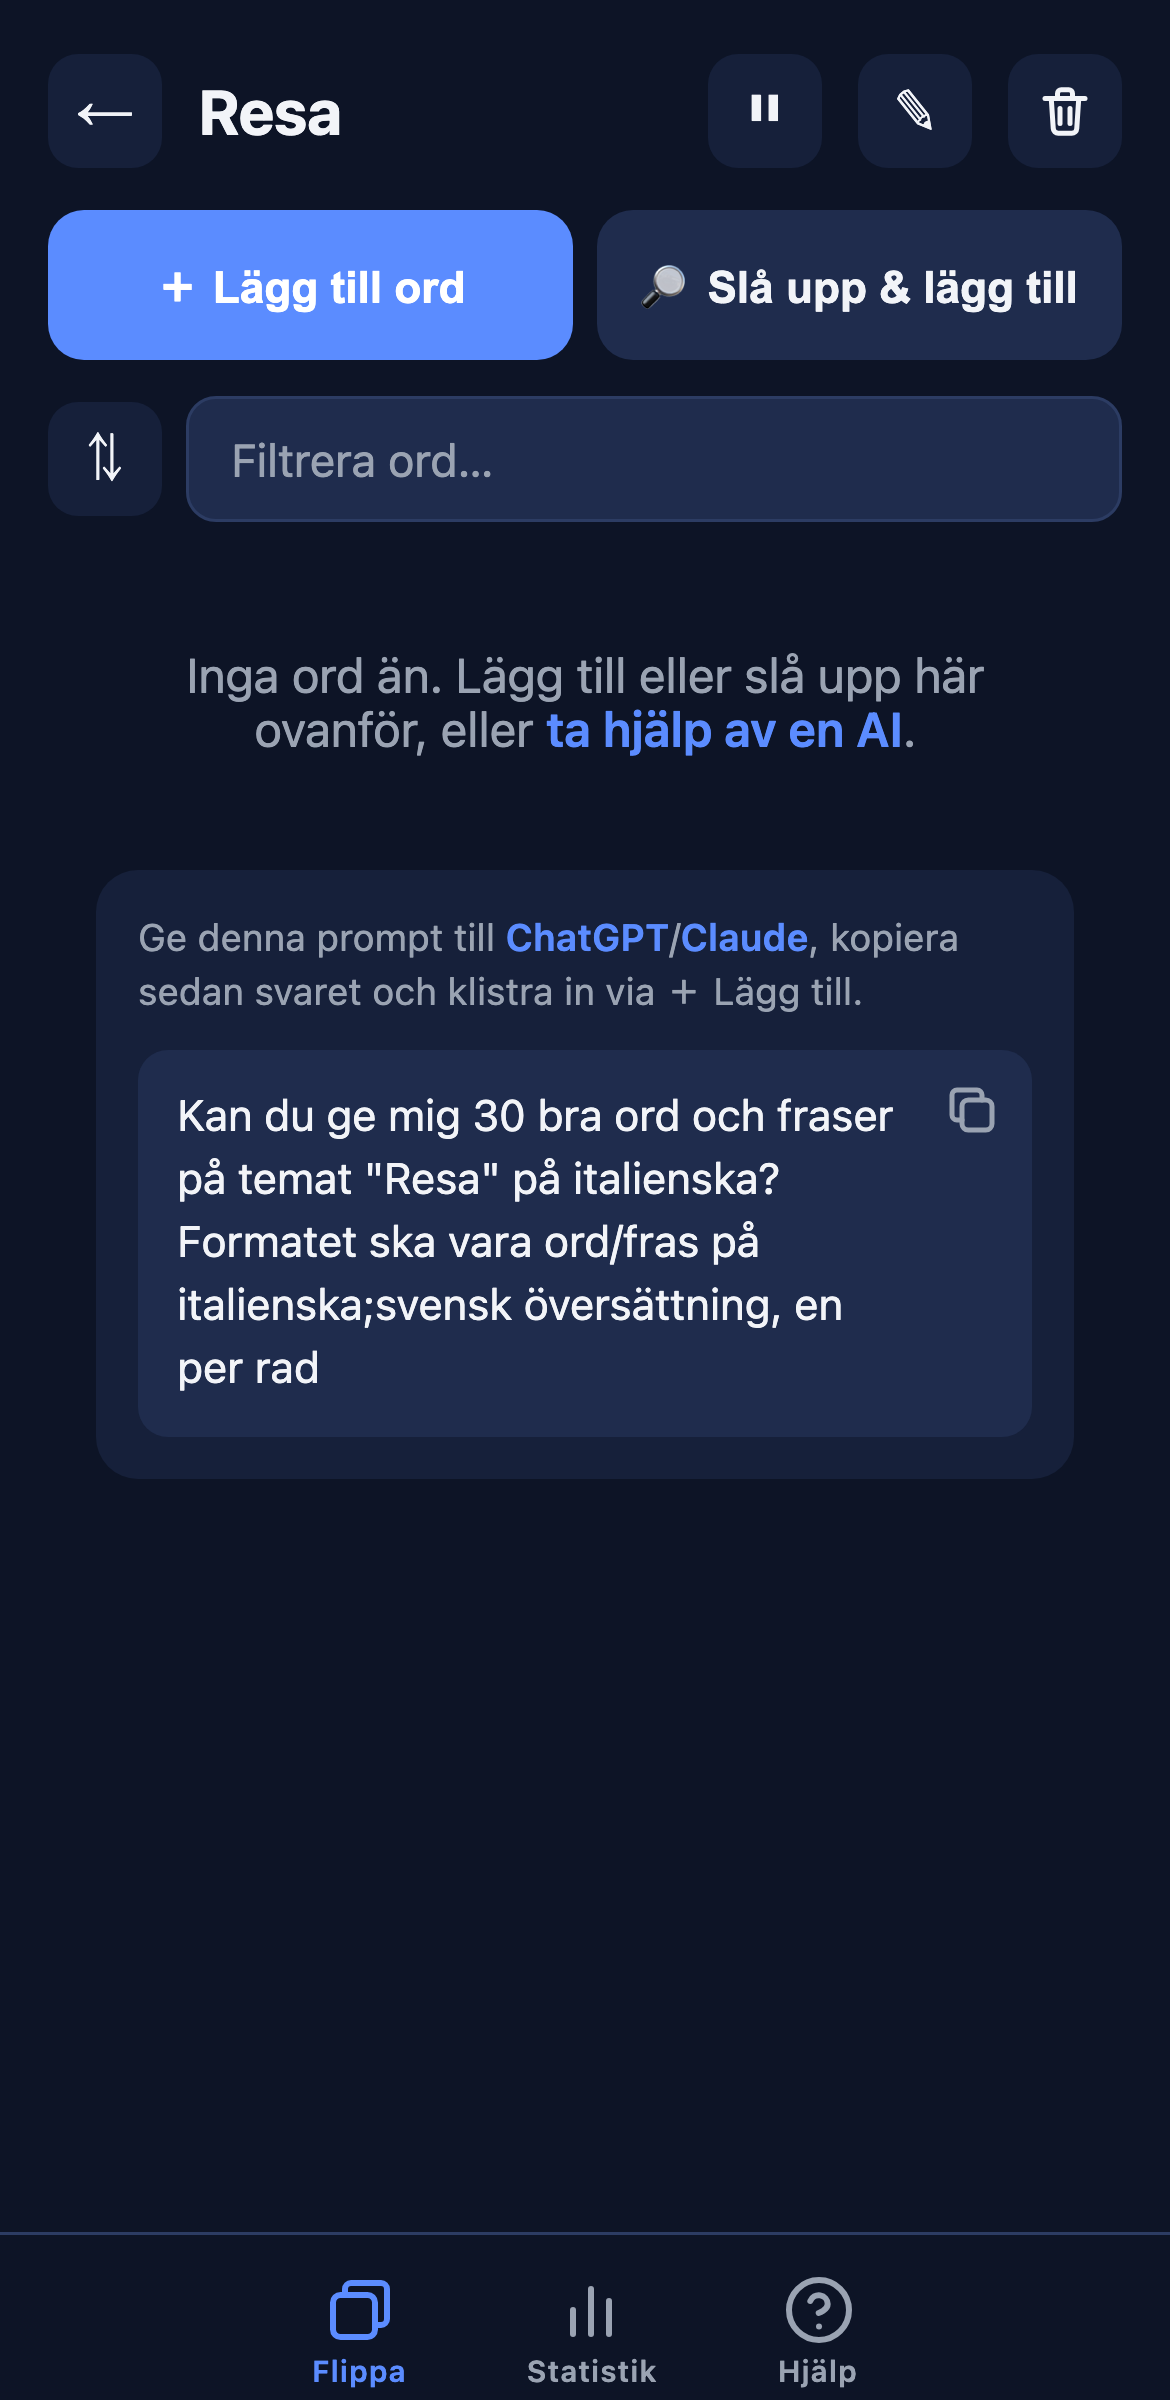
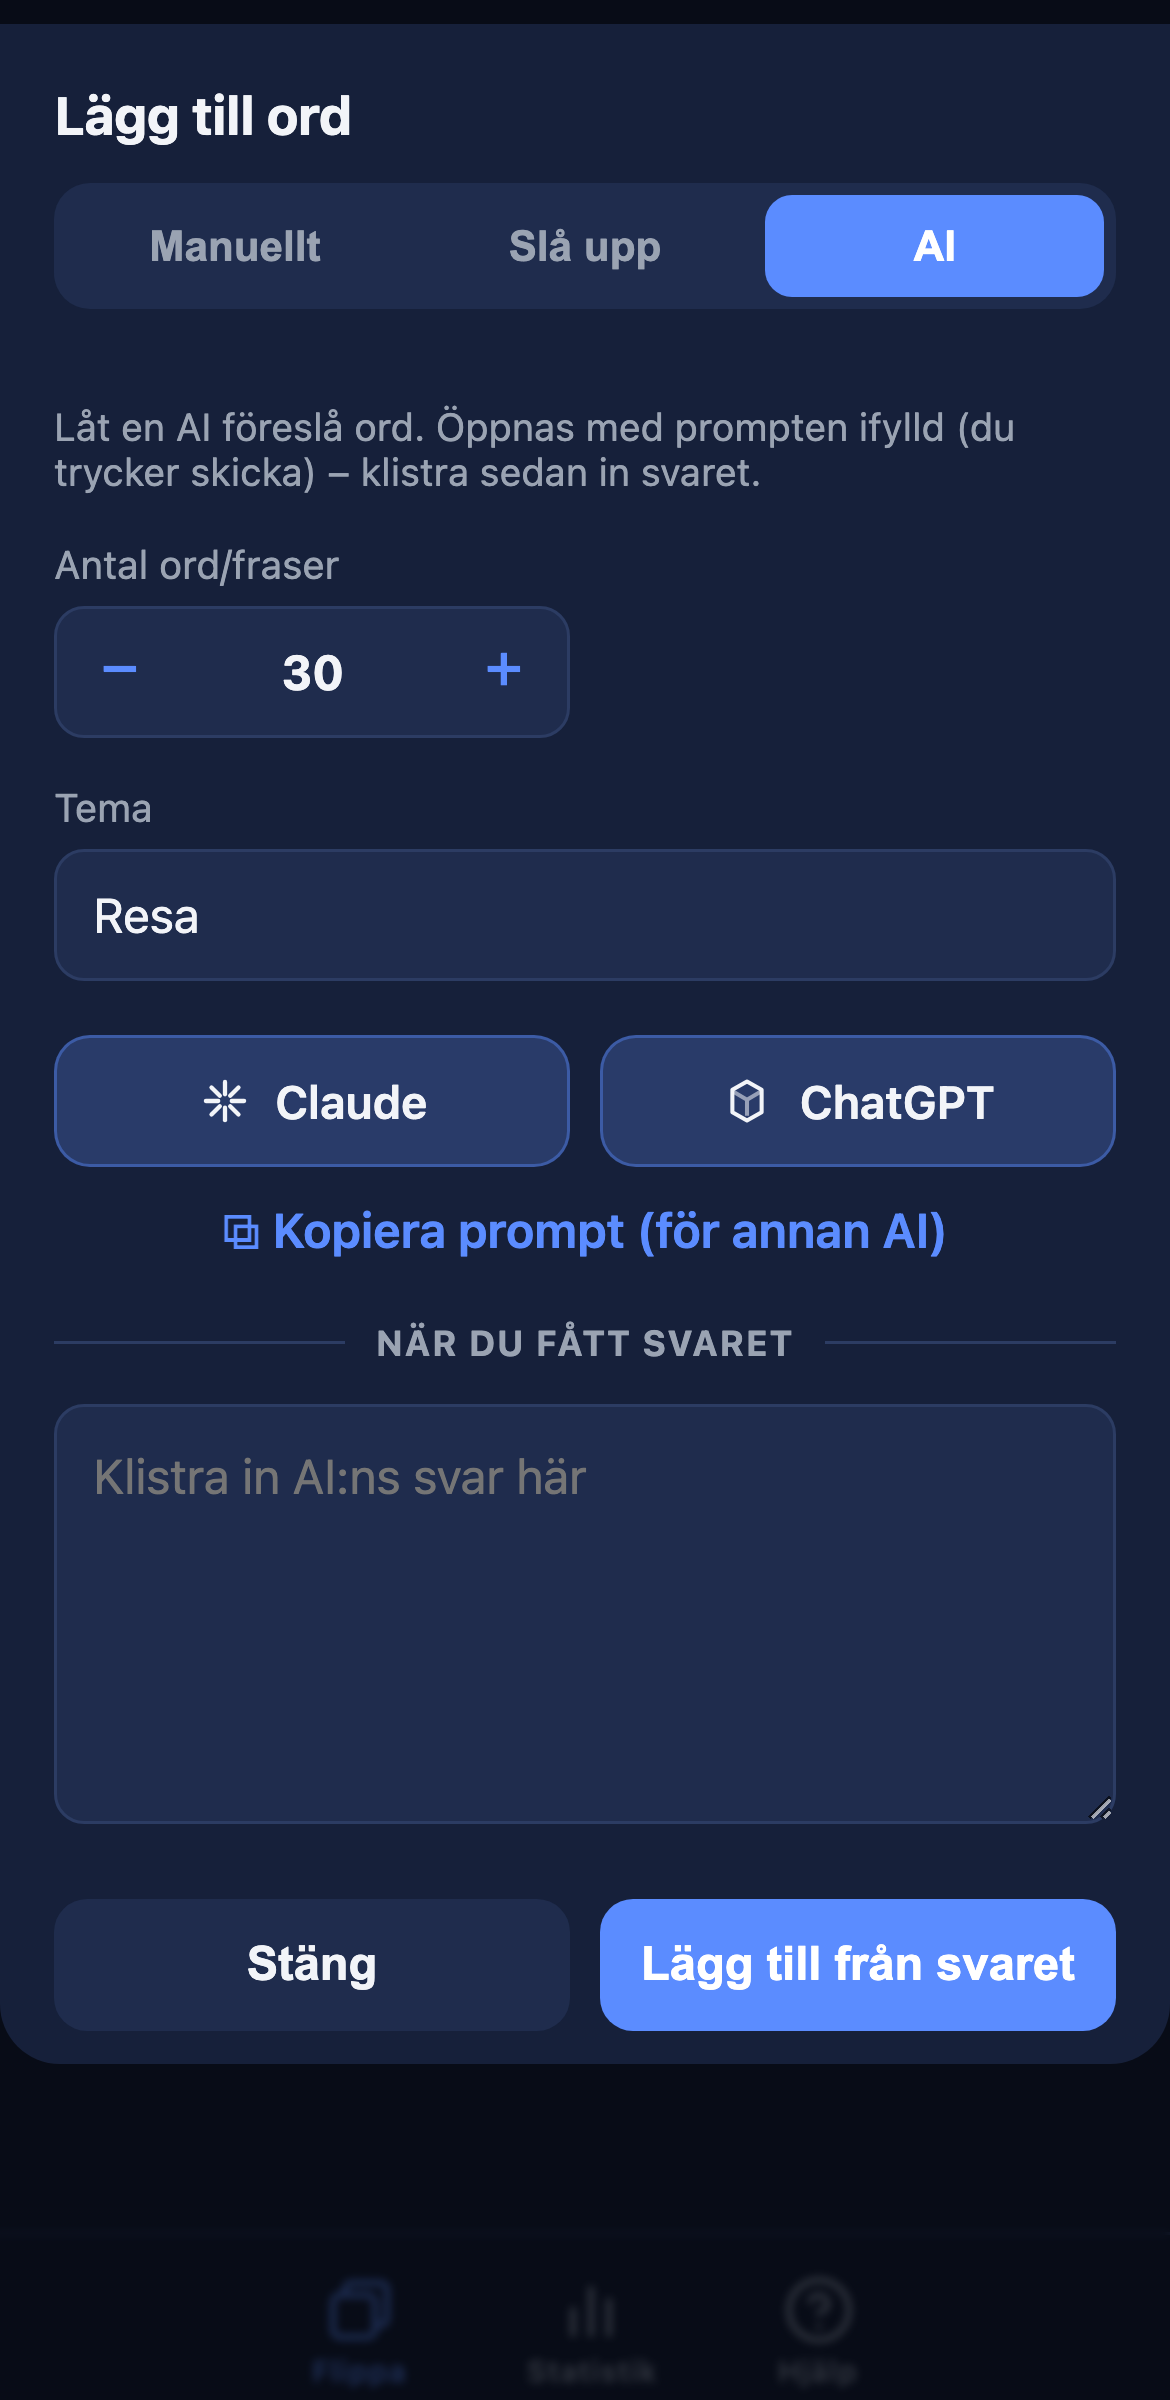
Om-sidan: uppdatera Fyll på-sektionen till nya Lägg till ord-dialogen (tre flikar: Manuellt/Slå upp/AI) + ny skärmdump

diff --git a/om/index.html b/om/index.html
@@ -132,11 +132,11 @@
   </section>
 
   <section class="feat">
-    <div class="phone sm"><img src="img/ai-prompt.png" alt="AI-prompt för att fylla på ord"></div>
+    <div class="phone sm"><img src="img/ai-prompt.png" alt="Lägg till ord-dialogen med flikarna Manuellt, Slå upp och AI"></div>
     <div class="txt">
       <div class="kicker">Kom igång snabbt</div>
-      <h2>Fyll på med AI eller import</h2>
-      <p>En tom lektion ger dig en färdig prompt att klistra in i valfri AI – kopiera svaret och lägg in orden. Eller importera färdiga listor som CSV. Från noll till hundra ord på minuter.</p>
+      <h2>Fyll på – skriv, slå upp eller fråga en AI</h2>
+      <p>”＋ Lägg till ord” samlar tre sätt i samma dialog: skriv in orden själv, slå upp &amp; översätt automatiskt (redigerbart), eller be en AI om förslag – öppna direkt i Claude/ChatGPT och klistra in svaret. Du kan även importera färdiga listor som CSV. Från noll till hundra ord på minuter.</p>
     </div>
   </section>
 
@@ -153,7 +153,7 @@
     <h2>Kom igång på en minut</h2>
     <div class="step-row">
       <div class="step"><div class="n">1</div><h3>Skapa ett ämne</h3><p>Välj språk – flagga och uppläsning sätts automatiskt.</p></div>
-      <div class="step"><div class="n">2</div><h3>Fyll på ord</h3><p>Slå upp & lägg till, klistra in via AI-prompten, eller importera en CSV.</p></div>
+      <div class="step"><div class="n">2</div><h3>Fyll på ord</h3><p>Skriv in dem, slå upp & översätt eller be en AI – eller importera en CSV.</p></div>
       <div class="step"><div class="n">3</div><h3>Börja swipa</h3><p>Kör "Dags att öva" – appen sköter repetitionen åt dig.</p></div>
     </div>
   </section>